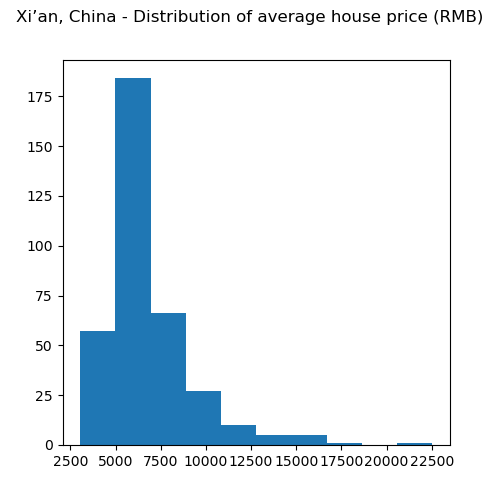
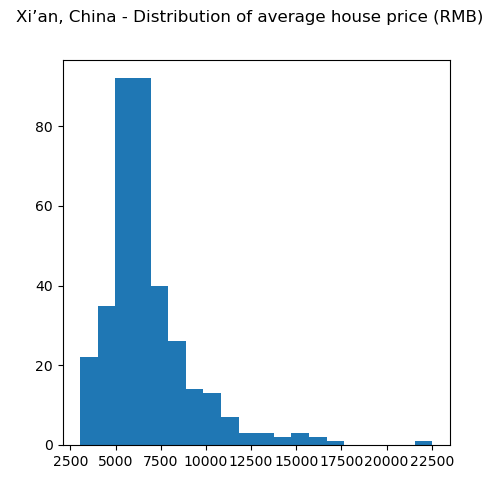
assess_coverage now generates histograms that compare income distros in covered/non-covered areas

diff --git a/assess_coverage.py b/assess_coverage.py
@@ -11,6 +11,11 @@ def v_to_g(index, grid_x_max, grid_y_max):
 
     return list(zip(grid_x, grid_y))
 
+def g_to_v(gx, gy, grid_x_max):
+    index = int(gx) * grid_x_max + int(gy)
+
+    return index
+
 if __name__ == "__main__":
     parser = argparse.ArgumentParser(description='Assess coverage of generated line')
 
@@ -34,16 +39,31 @@ if __name__ == "__main__":
     with open(avg_price_loc, 'r') as f:
         for line in f:
             g, s = line.rstrip().split('\t')
-            ses[g] = float(s)
+            # convert grid index string to tuple
+            gx = g.split(',')[0]
+            gy = g.split(',')[1]
 
-    ses_values = np.fromiter(ses.values(), dtype=float)
-    print("25% - " + str(np.percentile(ses_values, 10)))
-    print("75% - " + str(np.percentile(ses_values, 80)))
+            v_idx = g_to_v(gx, gy, args.grid_x_max)
+
+            ses[v_idx] = float(s)
+
+
+    covered_grid_prices = [ses[v] for v in tour_idx if v in ses]
+    non_covered_grid_prices = [ses[v] for v in ses.keys() if v not in tour_idx]
+
+    # print("25% - " + str(np.percentile(ses_values, 10)))
+    # print("75% - " + str(np.percentile(ses_values, 80)))
 
     fig, ax = plt.subplots(figsize=(5, 5))
-
-    ax.hist(ses.values())
+    ax.hist(ses.values(), bins=20)
     fig.suptitle('Xi’an, China - Distribution of average house price (RMB)')
-
     fig.savefig(os.path.join(constants.WORKING_DIR, 'index_average_price_distr.png'))
+
+    fig, ax = plt.subplots(figsize=(5, 5))
+    bins = np.linspace(np.fromiter(ses.values(), dtype=float).min(), np.fromiter(ses.values(), dtype=float).max(), 20)
+    ax.hist(covered_grid_prices, alpha=0.5, density=True, bins=bins, label='covered')
+    ax.hist(non_covered_grid_prices, alpha=0.5, density=True, bins=bins, label='not-covered')
+    ax.legend()
+    fig.suptitle('Xi’an, China - Distribution of average house price (RMB) \n generated line', fontsize=10)
+    fig.savefig(os.path.join(constants.WORKING_DIR, 'result', args.model_folder, 'index_average_price_distr_by_coverage_2.png'))
 

diff --git a/metro_trainer.py b/metro_trainer.py
@@ -458,7 +458,7 @@ def train_vrp(args):
         result_time = '%s' % datetime.datetime.now().time()
         result_time = result_time.replace(':', '_')
 
-        model_solution_path = os.path.join(args.result_path, '17_09_44.946337', 'tour_idx.txt')
+        model_solution_path = os.path.join(args.checkpoint, 'tour_idx.txt')
         # model_solution_path = os.path.join(args.result_path, result_time, 'tour_idx.txt')
 
         f = open(model_solution_path, 'w')
